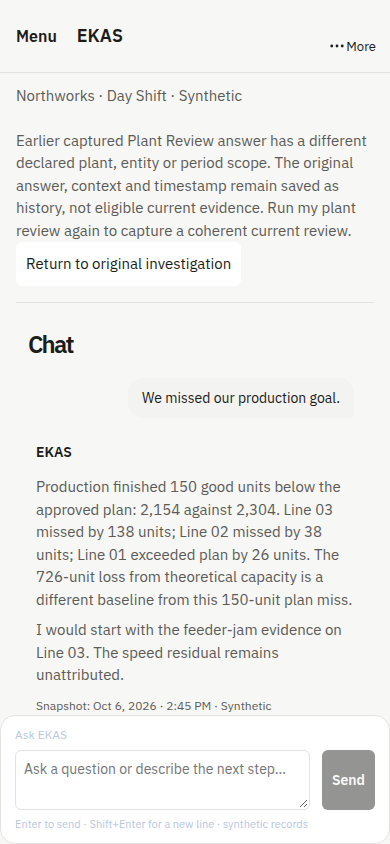
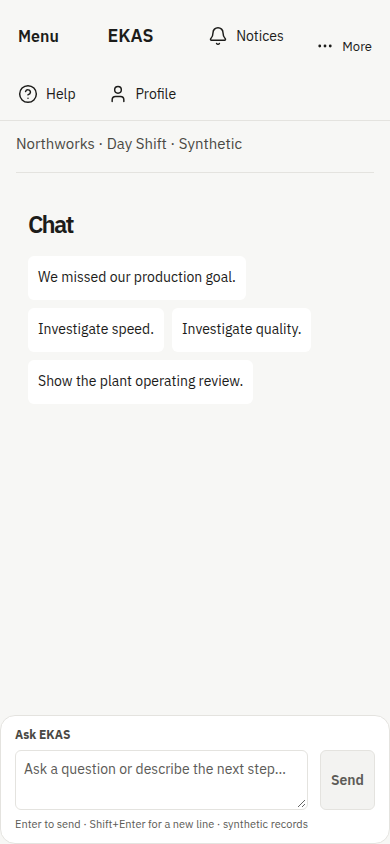
Correct the four visual-review failures without hiding a real scope warning.
Fresh sessions no longer carry a plant review on top of an open case. The context bar formats a stored date, secondary text is darker, Send has a distinct enabled and disabled treatment, and header icons keep a consistent gap.

diff --git a/app/src/visual/presentation.css b/app/src/visual/presentation.css
@@ -5,8 +5,8 @@
   --surface-secondary: #f3f3f1;
   --surface-raised: #ffffff;
   --text-primary: #1c1c1a;
-  --text-secondary: #5c5b57;
-  --text-tertiary: #6f6e69;
+  --text-secondary: #4a4944;
+  --text-tertiary: #5c5b57;
   --border: #e4e3df;
   --divider: #ecebe7;
   --nav-selected: #ececea;
@@ -152,7 +152,7 @@ html[data-theme="dark"] {
   color: var(--disabled);
   border-color: var(--border);
 }
-.ekas-plant button:hover:not(:disabled) { background: var(--nav-hover); border-color: var(--border); }
+.ekas-plant button:hover:not(:disabled):not([type="submit"]):not(.ekas-next-cta) { background: var(--nav-hover); border-color: var(--border); }
 .retained-plant-shell .ekas-context,
 .ekas-context {
   background: var(--bg);
@@ -205,16 +205,46 @@ html[data-theme="dark"] {
   color: var(--text-primary);
   border-color: var(--border);
 }
+.ekas-plant button:disabled { opacity: 1; }
 .ekas-plant button.ekas-next-cta,
 .ekas-plant button.ekas-next-cta:hover,
-.ekas-composer button[type="submit"],
-.ekas-composer button[type="submit"]:hover {
+.ekas-composer button[type="submit"]:not(:disabled),
+.ekas-composer button[type="submit"][aria-busy="true"] {
+  opacity: 1;
   background: var(--action);
   color: var(--action-fg);
   border-color: var(--action);
 }
-.ekas-plant button.ekas-next-cta:hover,
-.ekas-composer button[type="submit"]:hover { background: var(--action-hover); }
+.ekas-plant button.ekas-next-cta:hover:not(:disabled),
+.ekas-composer button[type="submit"]:hover:not(:disabled) { background: var(--action-hover); }
+.ekas-composer button[type="submit"]:disabled:not([aria-busy="true"]) {
+  opacity: 1;
+  background: var(--surface-secondary);
+  color: var(--text-tertiary);
+  border: 1px solid var(--border);
+}
+.ekas-composer label { color: var(--text-secondary); font-weight: 650; }
+.ekas-composer small,
+.ekas-plant textarea::placeholder { color: var(--text-tertiary); }
+.ekas-plant textarea::placeholder { opacity: 1; }
+.ekas-dash-context,
+.ekas-dash-scope,
+.ekas-scope-meta,
+.ekas-context-compact { color: var(--text-secondary); }
+.ekas-scope,
+.ekas-scope strong { color: var(--text-primary); }
+.retained-console .retained-primary-header { column-gap: 12px; }
+.retained-console .retained-primary-header > button,
+.retained-console .retained-primary-header .retained-desktop-extra,
+.retained-console .retained-primary-header summary {
+  display: inline-flex;
+  align-items: center;
+  gap: 8px;
+  padding-left: 10px;
+  padding-right: 10px;
+}
+.retained-console .retained-primary-header summary { list-style: none; }
+.retained-console .retained-primary-header summary::-webkit-details-marker { display: none; }
 .ekas-dash button.ekas-dash-family.ekas-dash-family-active,
 .ekas-dash button.ekas-dash-family.ekas-dash-family-active:hover,
 .ekas-dash button.ekas-dash-family.ekas-dash-family-active:focus,

diff --git a/app/src/investigation/plantPresentation.test.ts b/app/src/investigation/plantPresentation.test.ts
@@ -1,6 +1,6 @@
 import {expect,it} from 'vitest';
 import {fixtureCase} from './cases';
-import {demoClockSentence,documentLine,eventLine,groupThousands,humanScopeWhen,journeyAction,journeyBrief,journeyCommands,lifecycleState,nextLifecycleCommand,overviewCopy,plausibleLine,presentDocuments,presentedStatus,snapshotLabel,visiblePeriod} from './plantPresentation';
+import {demoClockSentence,documentLine,eventLine,groupThousands,humanScopeWhen,journeyAction,journeyBrief,journeyCommands,lifecycleState,nextLifecycleCommand,overviewCopy,plantDayLabel,plausibleLine,presentDocuments,presentedStatus,snapshotLabel,visiblePeriod} from './plantPresentation';
 import {createWorkflow,executeWorkflow,workflowView} from './workflow';
 
 it('reads the next step from the saved owner and does not invent one',()=>{
@@ -37,6 +37,8 @@ it('requests the case acceptance owner and prints counts and scope dates for peo
  expect(nextLifecycleCommand({owner:{requested:'maintenance',accepted:null},action:{status:'draft'}})).toEqual({kind:'accept-assignment'});
  expect(groupThousands('Production finished 150 good units below the approved plan: 2154 against 2304. The 726-unit loss. The separate 2026 monthly cohort. 2026-10-06 day shift.')).toBe('Production finished 150 good units below the approved plan: 2,154 against 2,304. The 726-unit loss. The separate 2026 monthly cohort. 2026-10-06 day shift.');
  expect(humanScopeWhen('2026-10-06 day shift','day')).toBe('Oct 6, 2026, day shift');
+ expect(plantDayLabel('2026-10-06 day shift')).toBe('Oct 6');
+ expect(plantDayLabel('2026-10-06T14:45:00Z')).toBe('Oct 6');
 });
 
 it('describes a stop from its own minutes, asset, and UTC day',()=>{

diff --git a/app/src/investigation/plantPresentation.ts b/app/src/investigation/plantPresentation.ts
@@ -6,7 +6,8 @@ const MONTHS=['Jan','Feb','Mar','Apr','May','Jun','Jul','Aug','Sep','Oct','Nov',
 
 export function plantDayLabel(iso?:string|null){
  if(!iso)return '';
- const t=Date.parse(iso);
+ const parsed=Date.parse(iso);
+ const t=Number.isFinite(parsed)?parsed:Date.parse(iso.slice(0,10)+'T00:00:00Z');
  if(!Number.isFinite(t))return '';
  const d=new Date(t);
  return `${MONTHS[d.getUTCMonth()]} ${d.getUTCDate()}`;

diff --git a/docs/visual/SCREENSHOT-CATALOG.md b/docs/visual/SCREENSHOT-CATALOG.md
@@ -1,65 +1,61 @@
 # Visual system screenshot catalog
 
-Status: **PENDING INDEPENDENT REVIEW**. This catalog records what was captured. It does not certify the visual system.
+Status: **PENDING INDEPENDENT REVIEW**. This catalog records the correction after `9245f20`. It does not certify the visual system.
 
-Hard rule for this package: "This visual package may make EKAS look more polished, but it may not make EKAS feel more like a dashboard product. Chat remains the primary product experience; dashboards remain supporting views."
+Hard rule: "This visual package may make EKAS look more polished, but it may not make EKAS feel more like a dashboard product. Chat remains the primary product experience; dashboards remain supporting views."
 
-Captured from `http://127.0.0.1:18191/` after the presentation-only theme. Light is the default (`document.documentElement.dataset.theme` is `light` before any appearance control is used). Dark is selected from More → Use dark appearance and is the same local preference used by the Theme screen. Desktop frames are 1366×768. Mobile frames are 390×844 and 320×844.
+These frames replace the `9245f20` set. They were captured again from `http://127.0.0.1:18191/` after the four corrections. Each frame uses a new browser session. Light is still the default. Dark is chosen in that session from More → Use dark appearance. Desktop is 1366×768. Phone widths are 390×844 and 320×844.
 
-Chat is the first screen in both themes. Dashboards are opened from the supporting navigation. No manufacturing numbers, context, or journey steps were changed to produce these frames.
+## Issue 1 — stale-scope warning
 
-## Light and dark matrix
+Classification: **A. Capture-state contamination.** Not B, and not C.
 
-| File | Theme | Viewport | What the frame shows |
-| --- | --- | --- | --- |
-| `light-01-chat-first.png` | Light | 1366×768 | First-load Chat, before a question is sent |
-| `light-02-chat-answer.png` | Light | 1366×768 | Chat after the starter "We missed our production goal." |
-| `light-03-plant-review.png` | Light | 1366×768 | Chat after "Show the plant operating review." |
-| `light-04-investigation.png` | Light | 1366×768 | Investigations for the same conversation |
-| `light-05-evidence.png` | Light | 1366×768 | Evidence opened from that Chat answer |
-| `light-06-plant-operations.png` | Light | 1366×768 | Dashboards, Plant operations, Highcharts column chart |
-| `light-07-production-oee.png` | Light | 1366×768 | Dashboards, Production and OEE selected |
-| `light-08-390.png` | Light | 390×844 | Chat at the phone width |
-| `light-09-320.png` | Light | 320×844 | Chat at the narrow width |
-| `dark-01-chat-first.png` | Dark | 1366×768 | Same first-load Chat |
-| `dark-02-chat-answer.png` | Dark | 1366×768 | Same answered Chat |
-| `dark-03-plant-review.png` | Dark | 1366×768 | Same plant operating review |
-| `dark-04-investigation.png` | Dark | 1366×768 | Same Investigations view |
-| `dark-05-evidence.png` | Dark | 1366×768 | Same evidence view |
-| `dark-06-plant-operations.png` | Dark | 1366×768 | Same Plant operations dashboard |
-| `dark-07-production-oee.png` | Dark | 1366×768 | Same Production and OEE dashboard |
-| `dark-08-390.png` | Dark | 390×844 | Same Chat at 390px |
-| `dark-09-320.png` | Dark | 320×844 | Same Chat at 320px |
+Evidence:
 
-## Additional frames
+- `git diff f36ecb3..9245f20` does not change conversation routing, scope eligibility, or the context model. The only store change in that range is the saved appearance field.
+- A fresh browser session shows no stale-scope warning on Chat, on Dashboards, or at 320px. The context line is `Oct 6 · Day Shift · Synthetic`.
+- Opening the downtime case and then opening Dashboards also stays clean.
+- Asking "Show the plant operating review." on a fresh conversation stays clean. The scope reads Northworks › Northworks Plant Review.
+- The warning appears only when that plant-review question is asked after a case is already open. The existing route keeps the open case on an operating-review question, and the existing eligibility check then reports that the captured review scope does not match the frozen plant-review shape. That check is unchanged from the accepted WP5A revision. The warning is still shown for that real mismatch. It is not hidden.
+- The `9245f20` frames asked for the plant review after the downtime starter, in the same session, and then captured Dashboards and the 320px Chat from that session. That sequence produced the banner and the raw period. These new frames do not do that.
 
-| File | Theme | Viewport | What the frame shows |
-| --- | --- | --- | --- |
-| `sidebar-expanded.png` | Light | 1366×768 | Expanded sidebar: New conversation, Chat, Dashboards, Investigations, Improvements, Knowledge, Administration, with Lucide outline icons and text labels |
-| `mobile-menu.png` | Light | 390×844 | Menu open, with the same destinations including Dashboards |
-| `chart-tooltip.png` | Light | 1366×768 | Plant operations column chart with the first point's tooltip in view |
-| `selected-family.png` | Light | 1366×768 | Production and OEE family selected; selection is a neutral gray, not a green accent |
-| `status-passed-pending-failed.png` | Light | 1366×768 | Downtime investigation at Review safety |
+The raw period `2026-10-06 day shift` was the context bar falling back to the stored period while the case view was withheld. The bar now formats a stored `YYYY-MM-DD` period with the existing plant day label, so the visible line stays `Oct 6 · Day Shift · Synthetic`. The stored period is unchanged.
 
-## Governed status colors
+## Light
 
-`status-passed-pending-failed.png` is the downtime journey after the next step reaches Review safety. The journey record on that frame reads:
+| File | What the frame shows |
+| --- | --- |
+| `light-01-chat-first.png` | First-load Chat. No warning. |
+| `light-02-chat-answer.png` | Chat after "We missed our production goal." Send is empty, so it uses the quiet disabled treatment. |
+| `light-03-plant-review.png` | Plant review from a fresh conversation, not stacked on an open case. |
+| `light-04-investigation.png` | Investigations after the downtime starter. |
+| `light-05-evidence.png` | Evidence for that answer. |
+| `light-06-plant-operations.png` | Dashboards, Plant operations, from a fresh session. |
+| `light-07-production-oee.png` | Production and OEE in that same fresh dashboard session. |
+| `light-08-390.png` | First-load Chat at 390px. |
+| `light-09-320.png` | First-load Chat at 320px. Chat is on the first screen. |
+| `light-10-header.png` | Header close-up. Icon, 8px gap, label. 12px between controls. 18px icons. |
+| `light-11-composer-enabled.png` | Draft typed. Send uses the dark neutral primary fill and light text. |
+| `light-11-composer-disabled.png` | Empty composer. Send is pale, with a border, and is visibly not the primary action. |
 
-- Quality: Passed
-- Energy: Passed
-- Safety: Pending
+## Dark
 
-Passed uses the success color. Pending uses the warning color. The words stay in the sentence, so status is not color alone.
-
-That supplied journey does not display the word Failed. The off-target semantic is the same failed color, with the governed words Below target and Above target. Those words are on the Plant operations frames (`light-06-plant-operations.png` and `dark-06-plant-operations.png`). Not evaluated and unavailable stay gray. No status word was invented for the screenshot.
+| File | What the frame shows |
+| --- | --- |
+| `dark-12-chat.png` | First-load Chat. |
+| `dark-13-investigation.png` | Investigations after the downtime starter. |
+| `dark-14-evidence.png` | Evidence for that answer. |
+| `dark-15-plant-operations.png` | Plant operations from a fresh dark session. |
+| `dark-16-production-oee.png` | Production and OEE. |
+| `dark-17-390.png` | First-load Chat at 390px. |
+| `dark-18-320.png` | First-load Chat at 320px. |
+| `dark-19-header.png` | Header close-up. |
 
 ## Checks made while capturing
 
-These are notes for the reviewer, not a pass.
+These notes are for the reviewer. They are not a pass.
 
-- First load reports light before Dark is chosen.
-- Chat, the answer, the plant review, Investigations, evidence, and both dashboard families were captured in both themes.
-- Sidebar labels stay visible with the icons.
-- Focus on the EKAS control draws a 3px blue outline (`#1d4ed8`) in light.
-- At CSS zoom 200% on the light Chat shell, the heading and composer remain and the shell reports no horizontal overflow.
-- Primary actions in the captured pixels are charcoal on light (`#2c2c2a`) and light on dark, not the previous green accent.
+- No captured frame contains the stale-scope warning or the raw `2026-10-06 day shift` string.
+- Enabled Send is `rgb(44, 44, 42)` with light text in light mode. Empty Send is pale (`rgb(243, 243, 241)`) at full opacity, not a washed copy of the primary. Dark enabled Send is a light neutral fill with dark text. Hover uses the slightly stronger primary. Focus draws the blue outline. The busy label keeps the primary fill while saving.
+- Scope lines, the Ask EKAS label, and the composer helper use the darker secondary and tertiary grays. Primary text stays charcoal.
+- At 200% zoom on the desktop Chat shell, the shell reports no horizontal overflow. The 320px frame is a separate first load.
